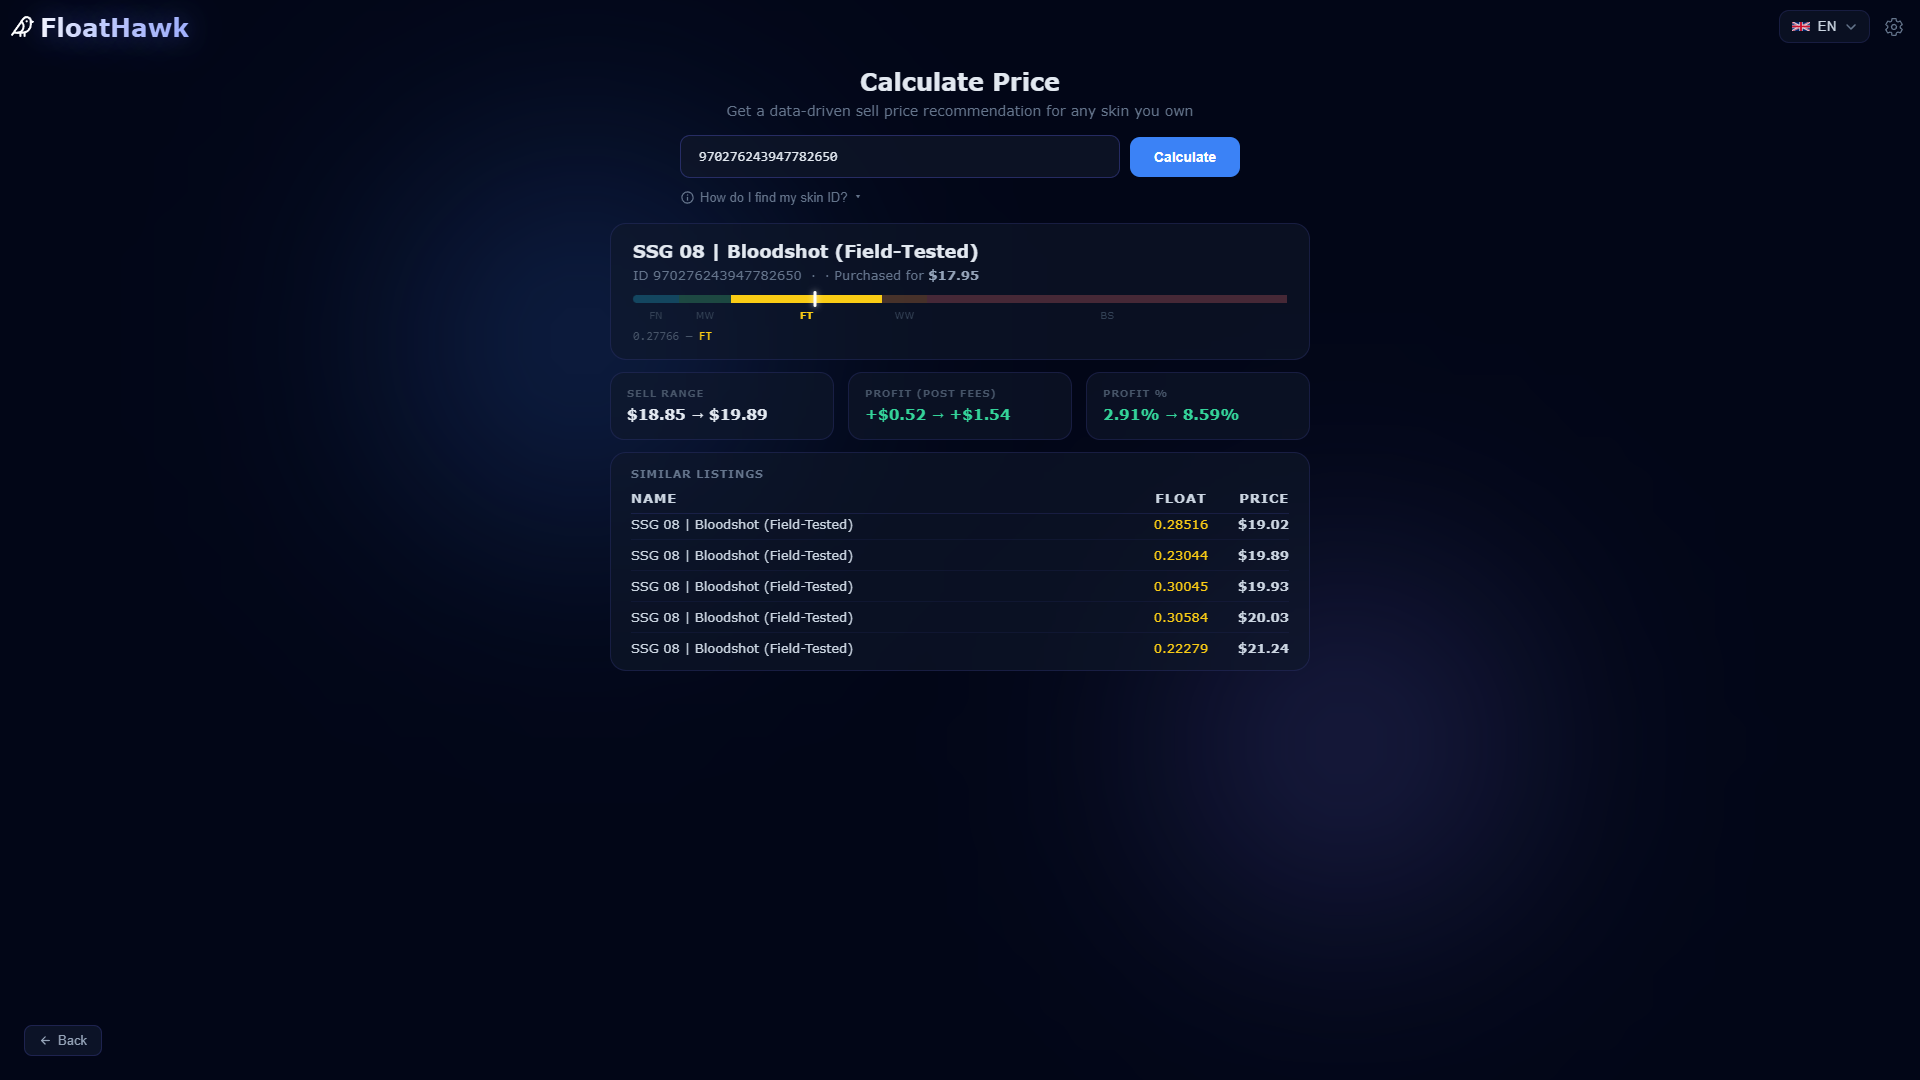
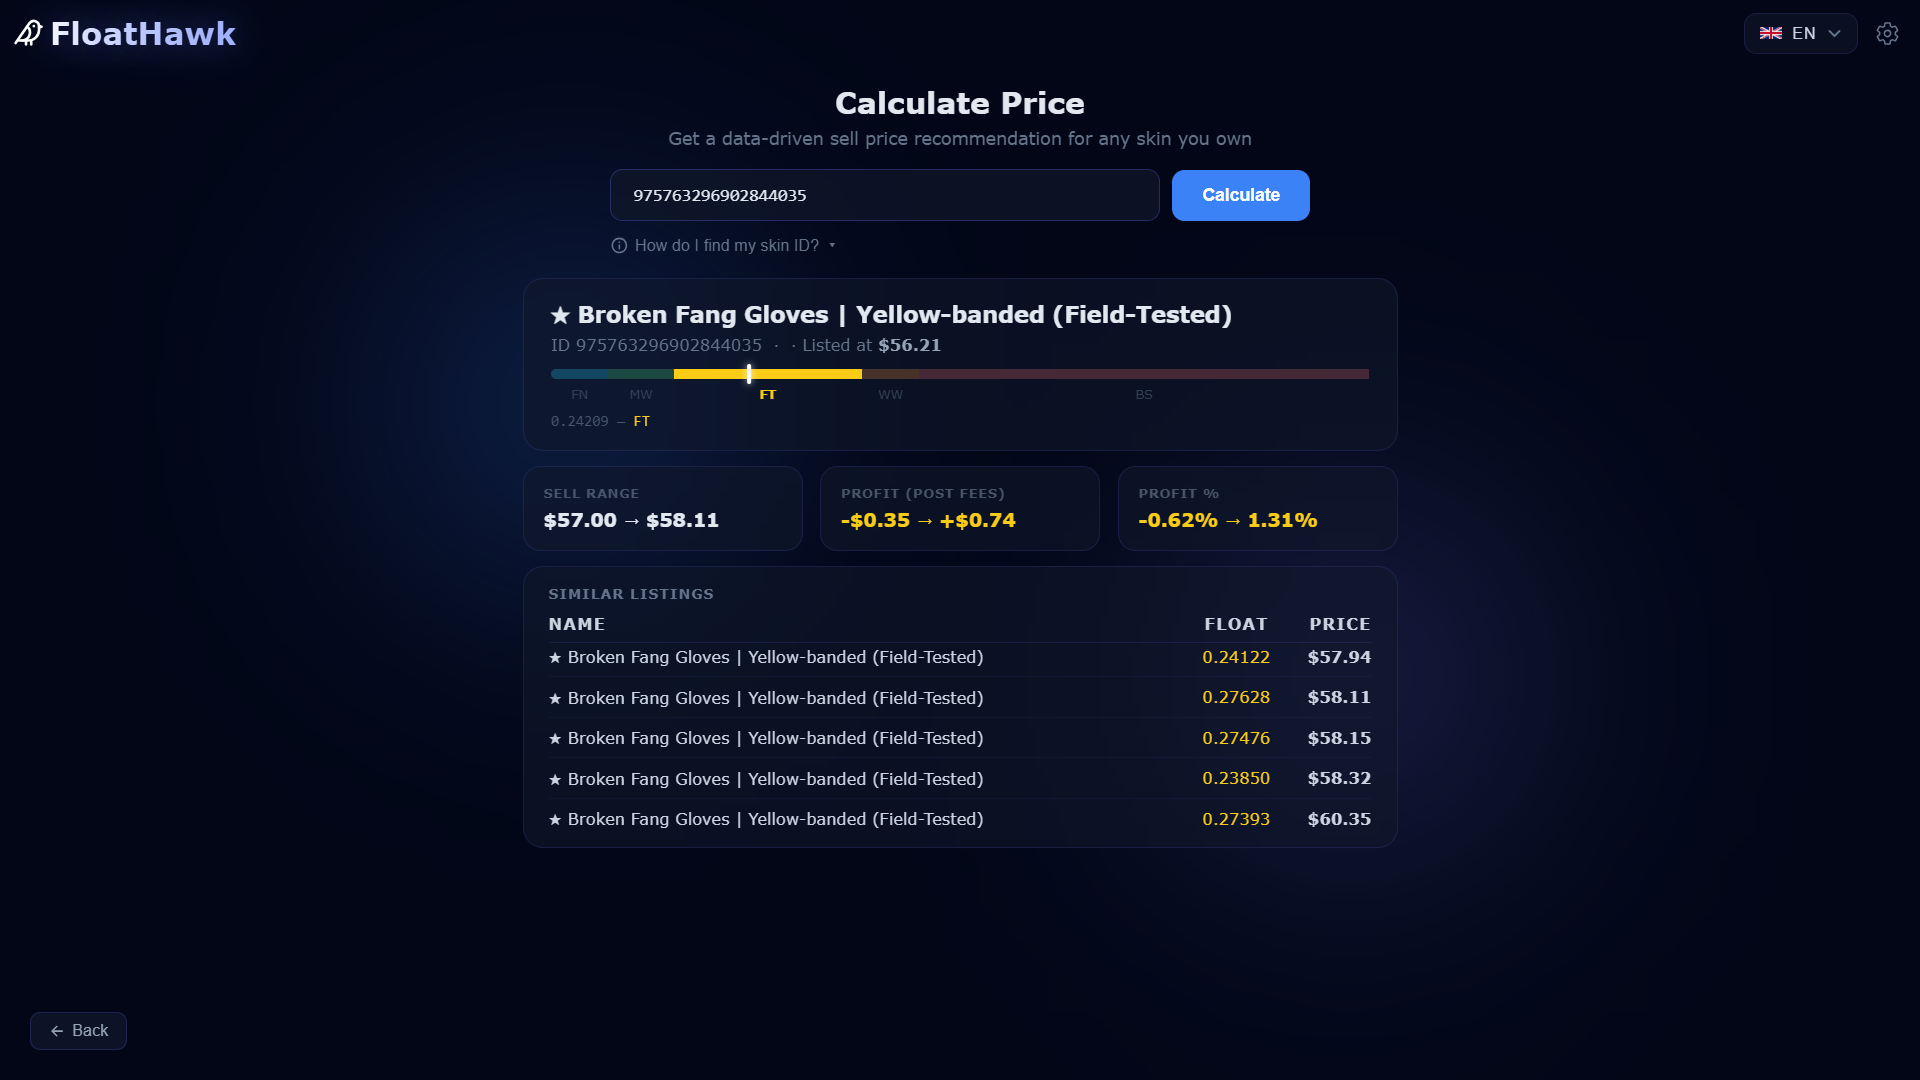
Remove backend log file and fix misleading price label in Calculate Price

diff --git a/Script/Main.py b/Script/Main.py
@@ -15,12 +15,6 @@ from CSFloat import get_balance_usd
 from DealsDB import init_db
 from paths import data_path
 
-if os.environ.get("DATA_DIR"):
-    import sys
-    _log = open(data_path("floathawk.log"), "a", encoding="utf-8", buffering=1)
-    sys.stdout = _log
-    sys.stderr = _log
-
 app = FastAPI()
 
 _excel_path: str | None = os.environ.get("EXCEL_PATH")
